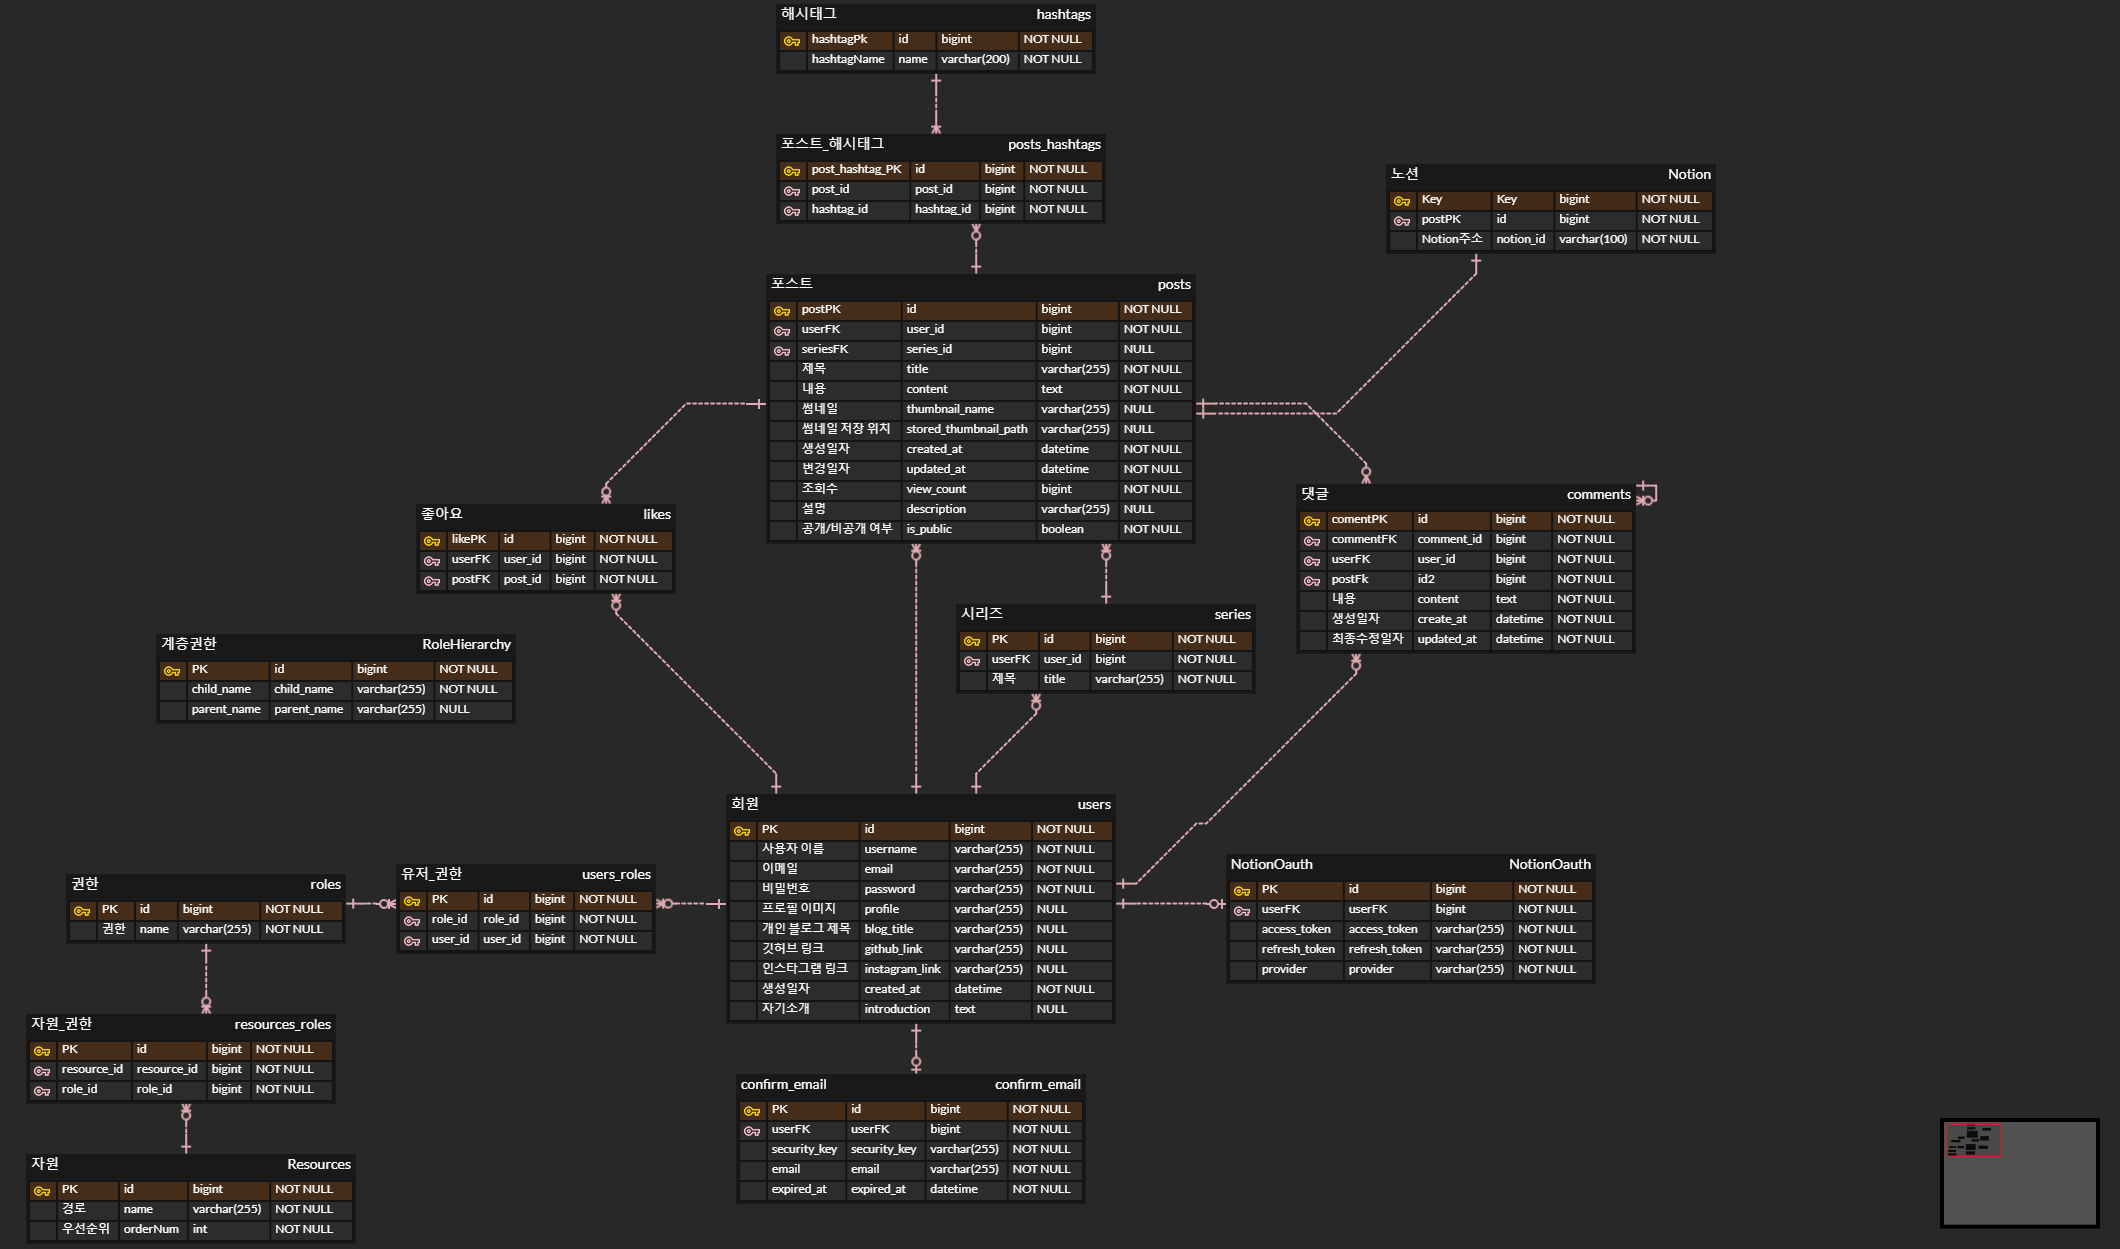
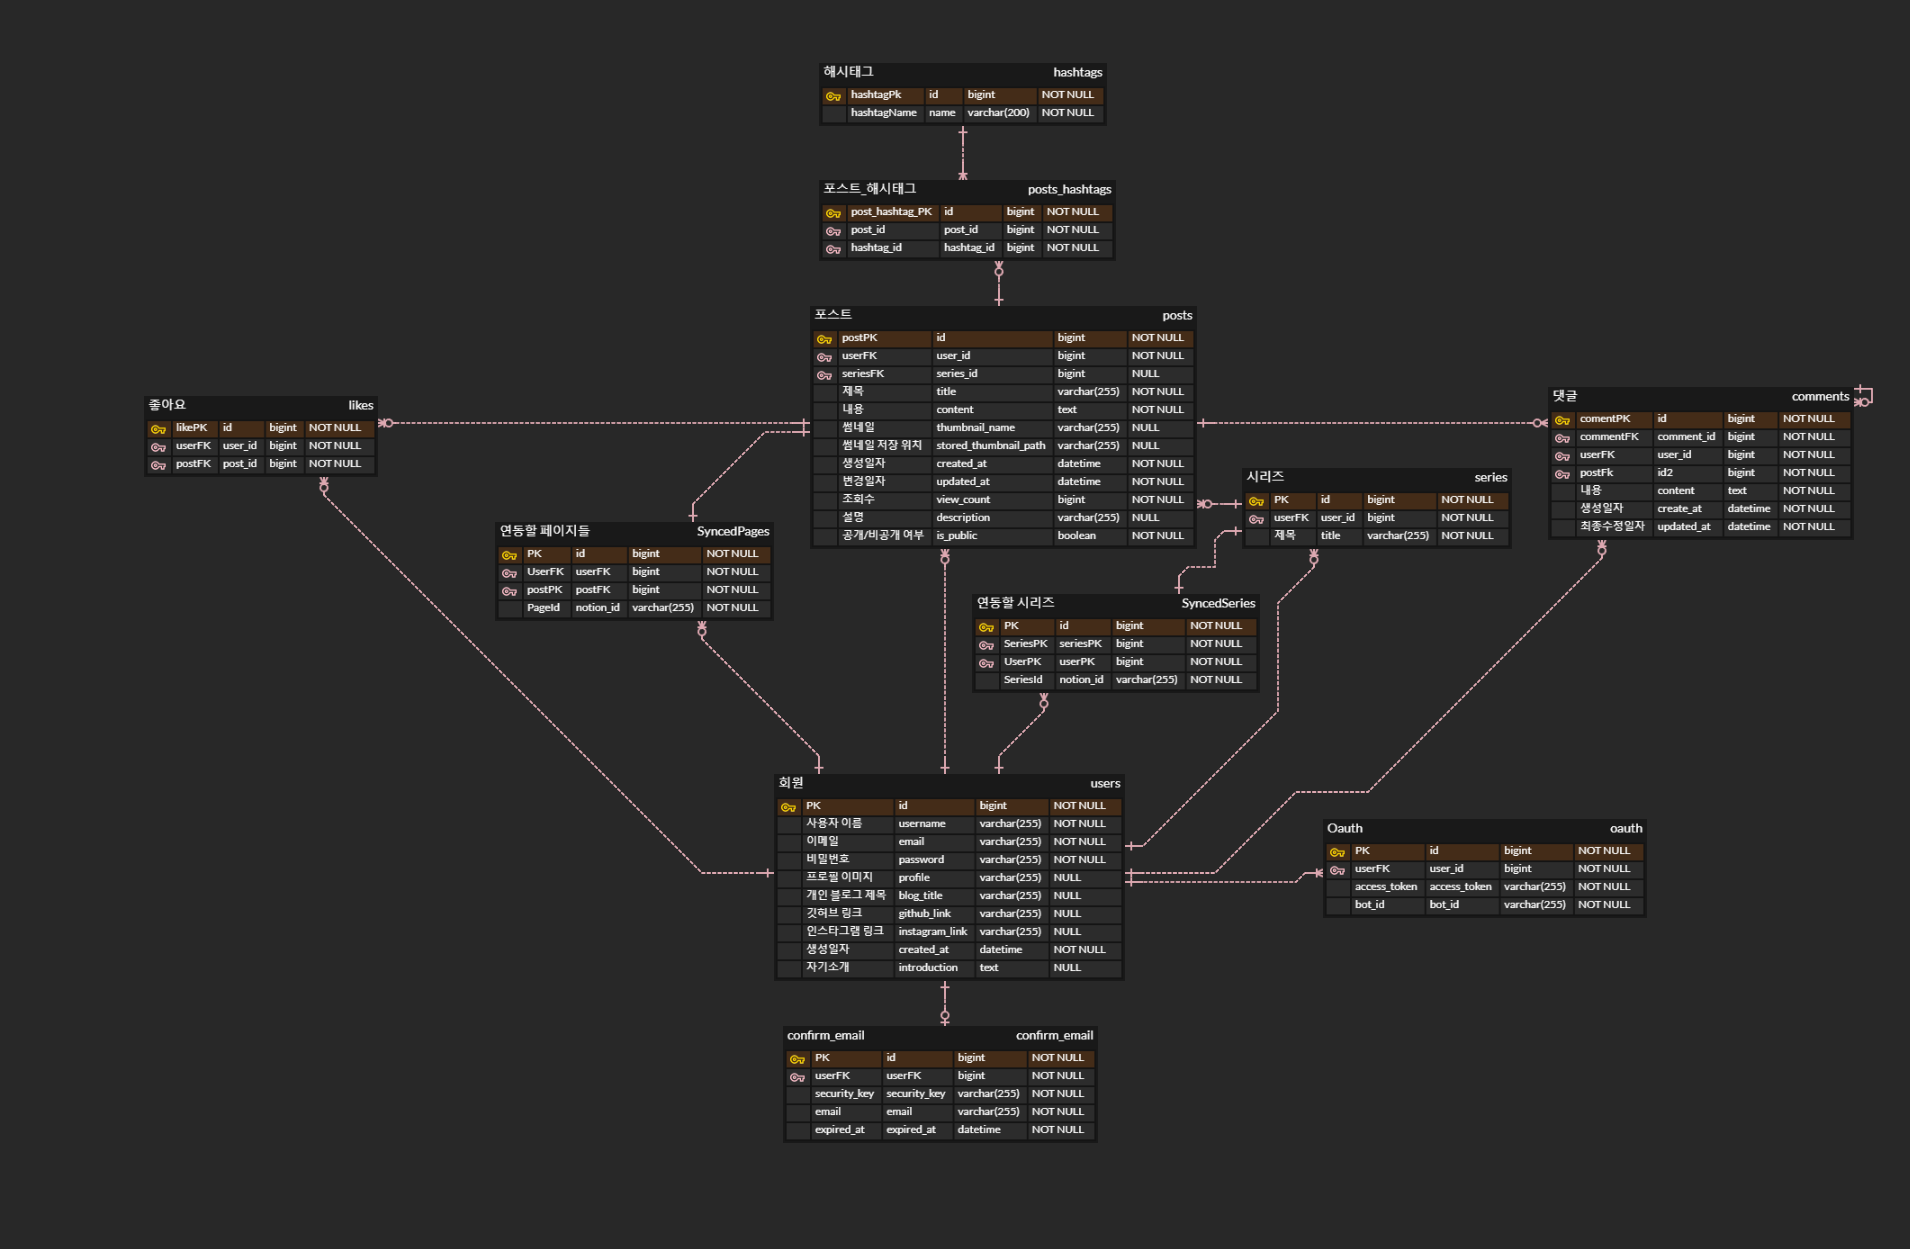
docs: README 수정 (#124)

diff --git a/README.md b/README.md
@@ -4,7 +4,7 @@
 
 - 20197121 정지용
 - 20181605 홍현표
-- 20177123 김태언
+- ~~20177123 김태언~~ (개인 사정으로 인해 중도 하차)
 
 ## Teamate Project Background
 
@@ -18,34 +18,75 @@
 1. 노션에 개인적으로 작성한 내용을 블로그에 옮기기 위해서는 여러가지 방법이 있다.
    1. 노션 자체에 내장되어있는 내보내기 기능을 사용하는데 변경되는 부분이 생겨 일일이 수정을 해주어야 하며 매우 불안정하다.
    2. 노션 자체를 페이지로 웹에서 공유하는 방법이 있다. 하지만 이 방법은 URL이 매우 복잡해지고 SEO도 좋지않아 결과 노출이 어렵다.
-   3. 마지막 방법은 프로그램을 사용하는 방법이다. [노션 - 티스토리 프로젝트]("https://github.com/jmjeon94/N2T") 현재는 버그가 많아 사용이 어렵다고 한다. 항상 프로그램을 실행시켜야 하고 어느정도 개발지식도 필요해 접근성도 떨어진다.
+   3. 마지막 방법은 프로그램을 사용하는 방법이다. [노션 - 티스토리 프로젝트]("https://github.com/jmjeon94/N2T")는 현재는 버그가 많아 사용이 어렵다고 한다. 항상 프로그램을 실행시켜야 하고 어느정도 개발지식도 필요해 접근성도 떨어진다.
 
 ## System Design
 
-- ### System Requirements
+### Tech Skill
+
+#### Frontend
+
+<img src="https://img.shields.io/badge/React-61DAFB?style=flat-square&logo=React&logoColor=white"/>
+<img src="https://img.shields.io/badge/Redux-764ABC?style=flat-square&logo=Redux&logoColor=white"/>
+<img src="https://img.shields.io/badge/TypeScript-3178C6?style=flat-square&logo=TypeScript&logoColor=white"/>
+<img src="https://img.shields.io/badge/Next.js-000000?style=flat-square&logo=Next.js&logoColor=white"/>
+<img src="https://img.shields.io/badge/StyledComponents-DB7093?style=flat-square&logo=styledcomponents&logoColor=white"/>
+<img src="https://img.shields.io/badge/axios-5A29E4?style=flat-square&logo=axios&logoColor=white"/>
+<img src="https://img.shields.io/badge/ESLint-4B32C3?style=flat-square&logo=eslint&logoColor=white"/>
+
+#### Backend
+
+<img src="https://img.shields.io/badge/SpringBoot-6DB33F?style=flat-square&logo=SpringBoot&logoColor=white"/>
+<img src="https://img.shields.io/badge/SpringSecurity-6DB33F?style=flat-square&logo=springsecurity&logoColor=white"/>
+<img src="https://img.shields.io/badge/Hibernate-59666C?style=flat-square&logo=Hibernate&logoColor=white"/>
+<img src="https://img.shields.io/badge/MariaDB-003545?style=flat-square&logo=MariaDB&logoColor=white"/>
+<img src="https://img.shields.io/badge/redis-DC382D?style=flat-square&logo=Redis&logoColor=white"/>
+
+#### Devops
+
+<img src="https://img.shields.io/badge/Docker-2496ED?style=flat-square&logo=Docker&logoColor=white"/>
+<img src="https://img.shields.io/badge/Kubernetes-326CE5?style=flat-square&logo=kubernetes&logoColor=white"/>
+<img src="https://img.shields.io/badge/AWS-232F3E?style=flat-square&logo=AmazonAWS&logoColor=white"/>
+
+#### Promgramming Tool
+
+<img src="https://img.shields.io/badge/VSCode-007ACC?style=flat-square&logo=Visual Studio Code&logoColor=white"/>
+<img src="https://img.shields.io/badge/Intellij-000000?style=flat-square&logo=IntelliJ IDEA&logoColor=white"/>
+
+### Communication Tool
+
+<img src="https://img.shields.io/badge/Slack-4A154B?style=flat-square&logo=slack&logoColor=white"/>
+<img src="https://img.shields.io/badge/Jira-0052CC?style=flat-square&logo=jira&logoColor=white"/>
+
+### System Architecture
+
+#### 운영
+
+![prod](./img/F12_ProductArchitecture.jpg)
+
+#### 개발
+
+![dev](./img/F12_DevArchitecture.jpg)
+
+### System Requirements
+
+![SystemRequirements](./img/F12_System_Requirements.jpg)
 
 #### 주요 기능
 
 1. 노션 연동
-   가. 자신이 작성한 노션 글 중에서 원하는 글을 선택하면 가져와서 자동으로 글을 작성.
+   1. 자신이 작성한 노션 글 중에서 원하는 글을 선택하면 가져와서 자동으로 글을 작성.
 2. 포스팅
-   나. 마크다운으로 입력하면 이를 뷰로 바꿔준다(다시 쓰기)
-   다. 마크다운의 # 문법을 미리보기로 보여준다.
-   라. 텍스트, 이미지 업로드
-   마. 해쉬태그 기능
-   바. 썸네일 기능
-   사. 좋아요 기능
-   아. 댓글 기능
-   자. 시리즈 기능
-   차. 시리즈에 등록된 글들을 모아서 볼 수 있다
-   카. 포스트에서 포스트로 넘어갈 때 시리즈에 있는 글들끼리 모아서 쉽게 넘어갈 수 있게 한다.
-3. 트렌딩
-   타. 특정 기간동안(한달, 한주, 일년)의 포스트중 사람들이 많이 읽은 글들을 보여주기
-   파. 최신 올라온 글들을 보여주기
-4. 구독 및 피드 기능
-   하. 특정 사용자의 글을 구독하여 알람을 받을 수 있음
-5. 방문 통계 기능
-6. 관리자 기능
+   1. 마크다운으로 입력하면 이를 뷰로 바꿔준다(다시 쓰기)
+   2. 마크다운의 # 문법을 미리보기로 보여준다.
+   3. 텍스트, 이미지 업로드
+   4. 해쉬태그 기능
+   5. 썸네일 기능
+   6. 좋아요 기능
+   7. 댓글 기능
+   8. 시리즈 기능
+   9. 시리즈에 등록된 글들을 모아서 볼 수 있다
+   10. 포스트에서 포스트로 넘어갈 때 시리즈에 있는 글들끼리 모아서 쉽게 넘어갈 수 있게 한다.
 
 #### 비기능적 요구사항
 
@@ -53,31 +94,25 @@
 - 보안성: 악의적인 사용자를 방지하기 위해 이메일 기반 인증 및 Oauth2 회원가입을 통해 스팸 계정을 제한한다.
 - 이식성: 웹 기반 서비스이기 때문에 PC, 모바일, 태블릿 등 기종에 상관없이 웹 브라우저만 있다면 이용할 수 있도록 최대한의 이식성을 제공한다.
 
-## Case Study
-
-- ### Description
-
 ## Conclusion
 
-- ### OOO
+- 현재 많은 개발자들이 개인적으로 기록하거나 공유할 만한 내용들은 블로그를 통해 보여지고 있고 협업과 같이 많은 사람들과 일을 진행할 때는 노션을 사용하고 있다.
 
-## Project Outcome
-
-- ### 2023 년 OO학술대회
+- 노션에 있는 글을 개인 혹은 회사 홍보, 공유 목적으로 블로그에 올리는 사람들은 더 쉽고 빠르게 블로그에 글을 공유함으로써 원하는 목적에 달성할 수 있다.
 
 ## ERD
-updatedAt 2023.07.20 - notion과 연동을 위한 테이블 추가
+
 ![erd](./img/F12-ERD.png)
 
 ## Class Diagram
 
-![class_diagram](./img/F12.png)
+![ClassDiagram](./img/class-diagram.png)
 
 ## Commit Rule
 
 ### Commit Message Structure
 
-```
+```plain
 type: subject
 
 body
